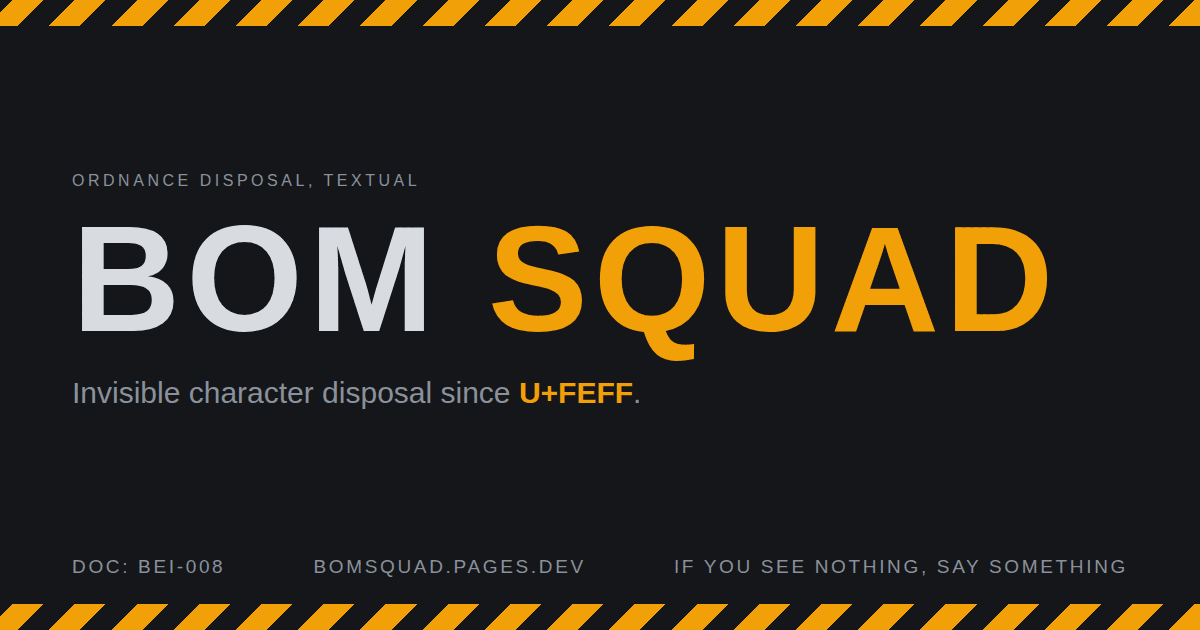
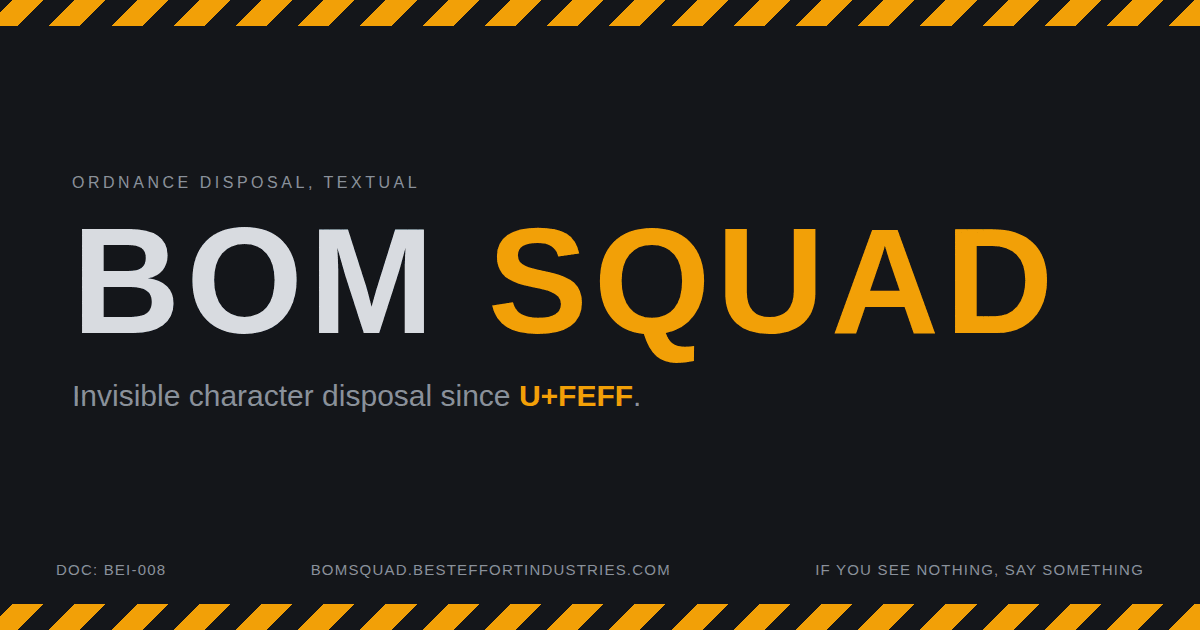
Canonicalise to the parent subdomain

diff --git a/index.html b/index.html
@@ -7,11 +7,11 @@
 <meta name="description" content="Invisible character disposal since U+FEFF. If you can see the problem, it is not our department.">
 <meta name="robots" content="index, follow">
 
-<!-- PRODUCTION DOMAIN, hardcoded. bomsquad.pages.dev is a candidate, not purchased.
+<!-- PRODUCTION DOMAIN, hardcoded. bomsquad.besteffortindustries.com is a candidate, not purchased.
      If the site lands elsewhere, change the four absolute URLs below and the
      footer of tools/og.html, then re-run `make og`. Those are the only two
      files that name it; nothing derives it. -->
-<link rel="canonical" href="https://bomsquad.pages.dev/">
+<link rel="canonical" href="https://bomsquad.besteffortindustries.com/">
 <meta name="theme-color" content="#14161a">
 
 <link rel="icon" href="/favicon.svg" type="image/svg+xml">
@@ -20,10 +20,10 @@
 
 <meta property="og:type" content="website">
 <meta property="og:site_name" content="BOM SQUAD">
-<meta property="og:url" content="https://bomsquad.pages.dev/">
+<meta property="og:url" content="https://bomsquad.besteffortindustries.com/">
 <meta property="og:title" content="BOM SQUAD">
 <meta property="og:description" content="Invisible character disposal since U+FEFF.">
-<meta property="og:image" content="https://bomsquad.pages.dev/og.png">
+<meta property="og:image" content="https://bomsquad.besteffortindustries.com/og.png">
 <meta property="og:image:type" content="image/png">
 <meta property="og:image:width" content="1200">
 <meta property="og:image:height" content="630">
@@ -33,7 +33,7 @@
 <meta name="twitter:card" content="summary_large_image">
 <meta name="twitter:title" content="BOM SQUAD">
 <meta name="twitter:description" content="Invisible character disposal since U+FEFF.">
-<meta name="twitter:image" content="https://bomsquad.pages.dev/og.png">
+<meta name="twitter:image" content="https://bomsquad.besteffortindustries.com/og.png">
 <meta name="twitter:image:alt" content="BOM SQUAD: invisible character disposal since U+FEFF. Hazard stripes on a dark background.">
 <style>
   :root{

diff --git a/tools/og.html b/tools/og.html
@@ -3,7 +3,7 @@
   Source for /og.png (1200x630). Rendered by `make og`.
   Edit the copy here, not the PNG. Regenerate after any tagline change.
   The domain in the footer is the production-domain placeholder; if the
-  site lands somewhere other than bomsquad.pages.dev, change it here too.
+  site lands somewhere other than bomsquad.besteffortindustries.com, change it here too.
 -->
 <html>
 <head>
@@ -41,10 +41,10 @@
   .tagline b { color: #f2a007; font-weight: 700; }
   .foot {
     flex: none;
-    padding: 0 72px 26px;
-    display: flex; justify-content: space-between;
-    font-size: 19px; color: #8b919c;
-    text-transform: uppercase; letter-spacing: 0.14em;
+    padding: 0 56px 26px;
+    display: flex; justify-content: space-between; gap: 26px; white-space: nowrap;
+    font-size: 15px; color: #8b919c;
+    text-transform: uppercase; letter-spacing: 0.08em;
   }
 </style>
 </head>
@@ -57,7 +57,7 @@
   </div>
   <div class="foot">
     <span>DOC: BEI-008</span>
-    <span>BOMSQUAD.PAGES.DEV</span>
+    <span>BOMSQUAD.BESTEFFORTINDUSTRIES.COM</span>
     <span>IF YOU SEE NOTHING, SAY SOMETHING</span>
   </div>
   <div class="stripe"></div>

diff --git a/README.md b/README.md
@@ -100,7 +100,7 @@ host or wait for.
 
 ### The production domain
 
-The site is served at `bomsquad.pages.dev`, and that is the host every absolute
+The site is served at `bomsquad.besteffortindustries.com`, and that is the host every absolute
 URL on the page points at, so link previews resolve. `bomsquad.dev` remains
 the candidate domain and has not been purchased; if the site is
 promoted, either to that domain or to a subdomain of the parent
@@ -233,14 +233,14 @@ Deploy at least once first, so the project exists. Then, once
 2. **Attach the domain to the Pages project.** Dashboard -> **Workers &
    Pages** -> `bomsquad` -> **Custom domains** -> **Set up a custom
    domain**. Because the zone is on Cloudflare, the required CNAME record
-   (apex, flattened, proxied, pointing at `bomsquad.pages.dev`) is created
+   (apex, flattened, proxied, pointing at `bomsquad.besteffortindustries.com`) is created
    for you. **Do not create the record by hand first**; a pre-existing
    CNAME blocks the flow outright.
 3. **Repeat for `www`** if both should resolve.
 4. **Wait for the certificate.** Issuance normally completes within a few
    minutes of the record appearing.
 
-Until then the site is reachable at `bomsquad.pages.dev`.
+Until then the site is reachable at `bomsquad.besteffortindustries.com`.
 
 ### Related
 
